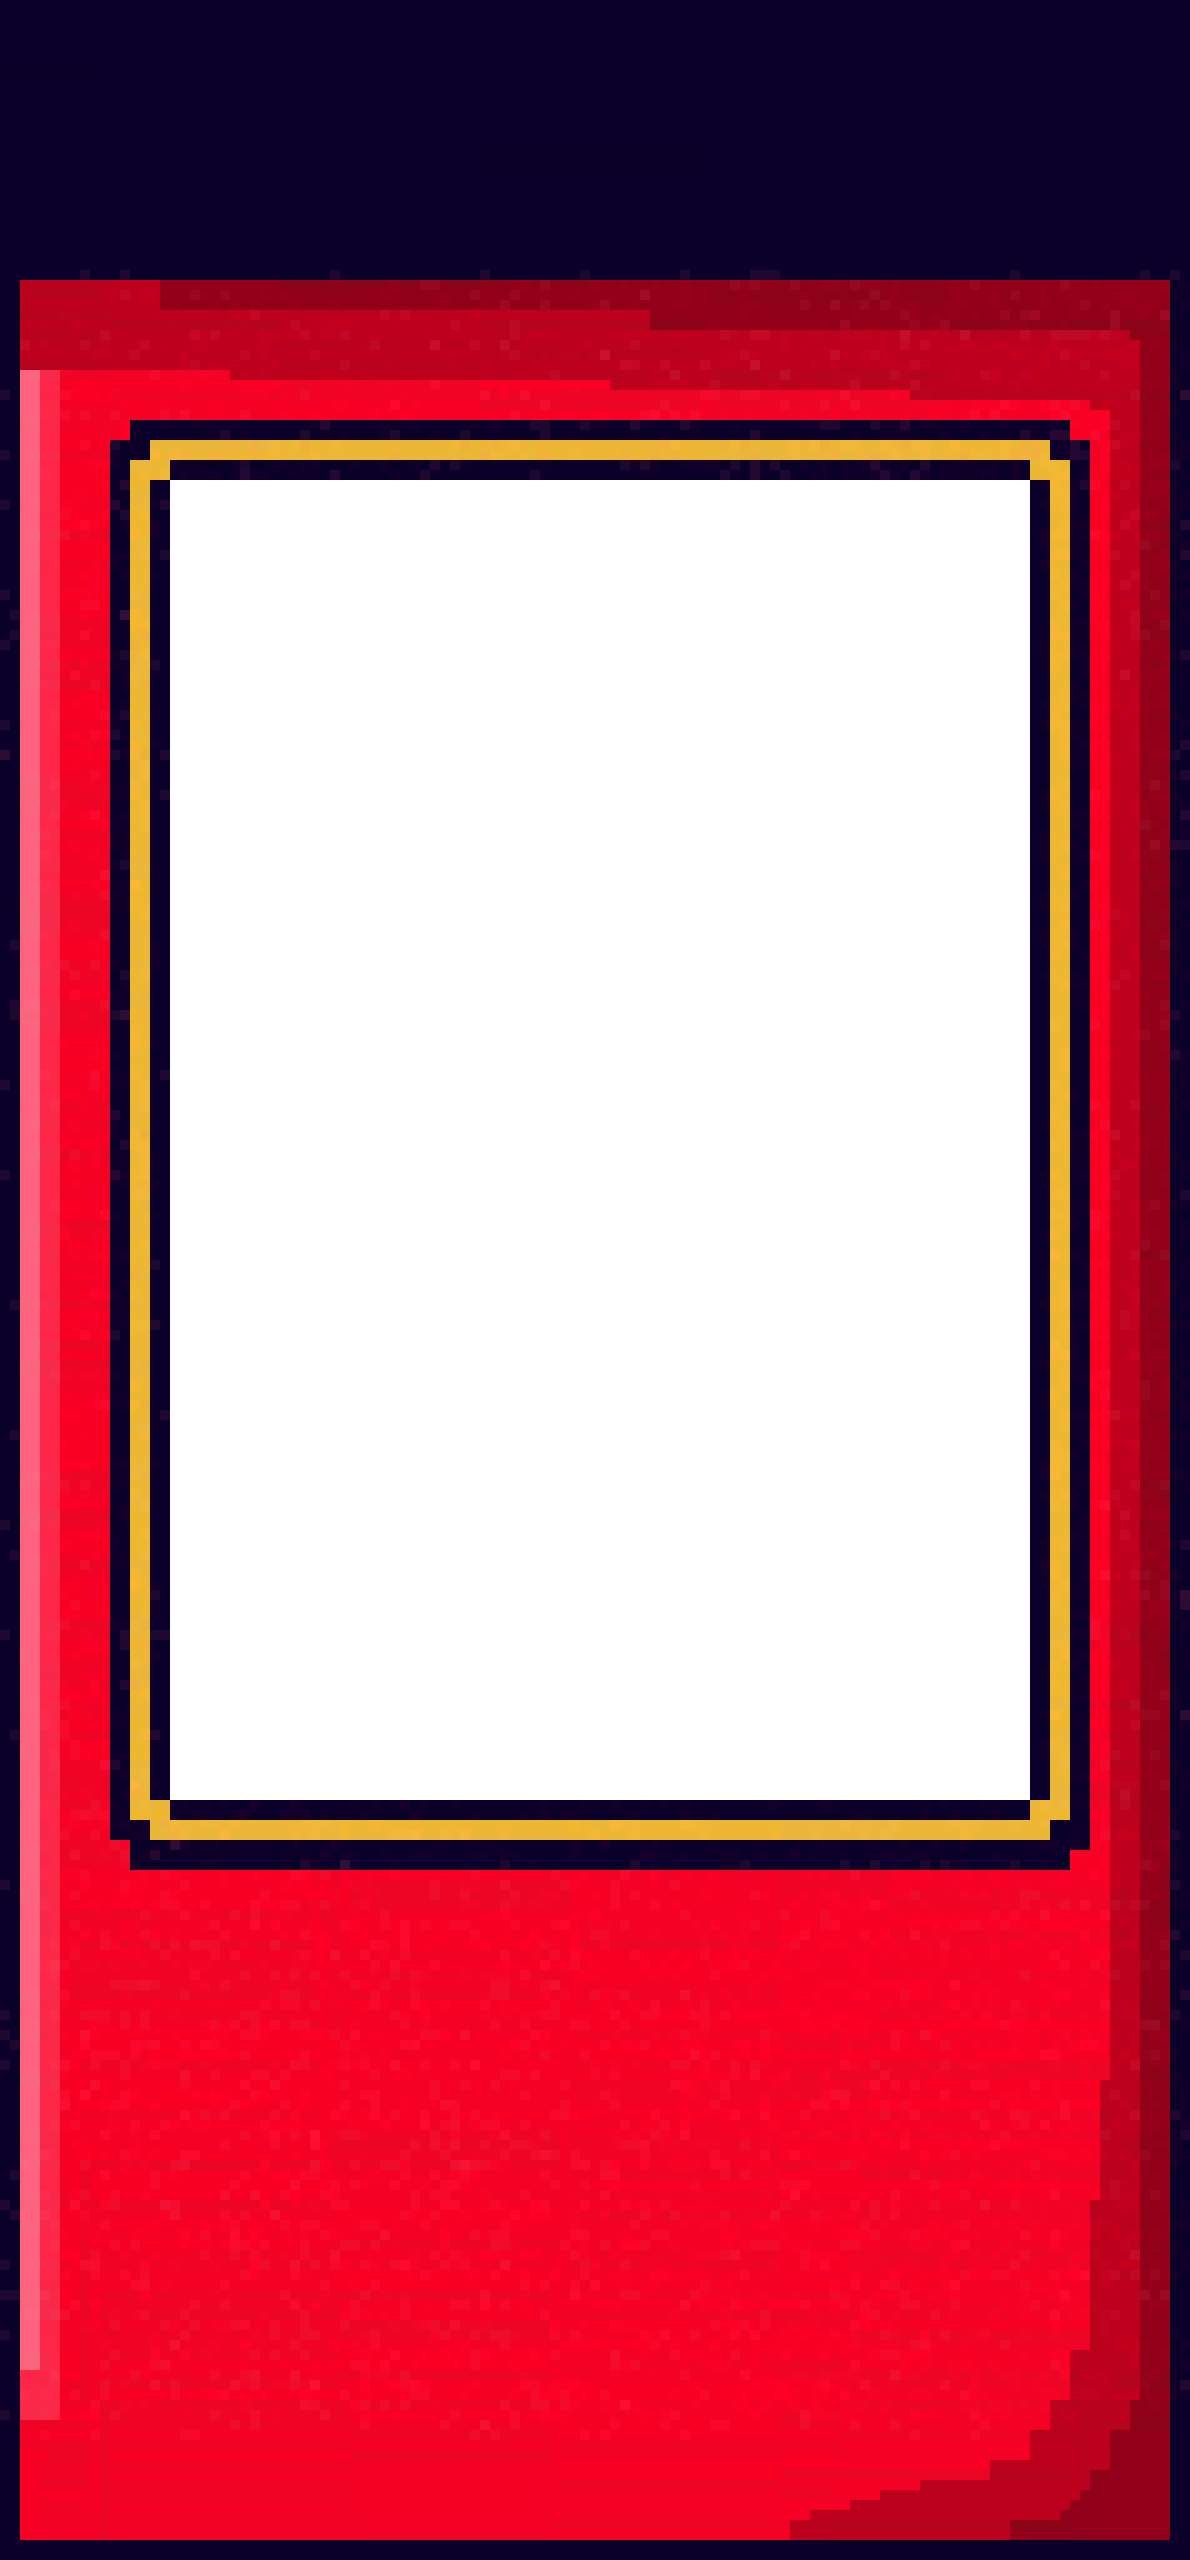
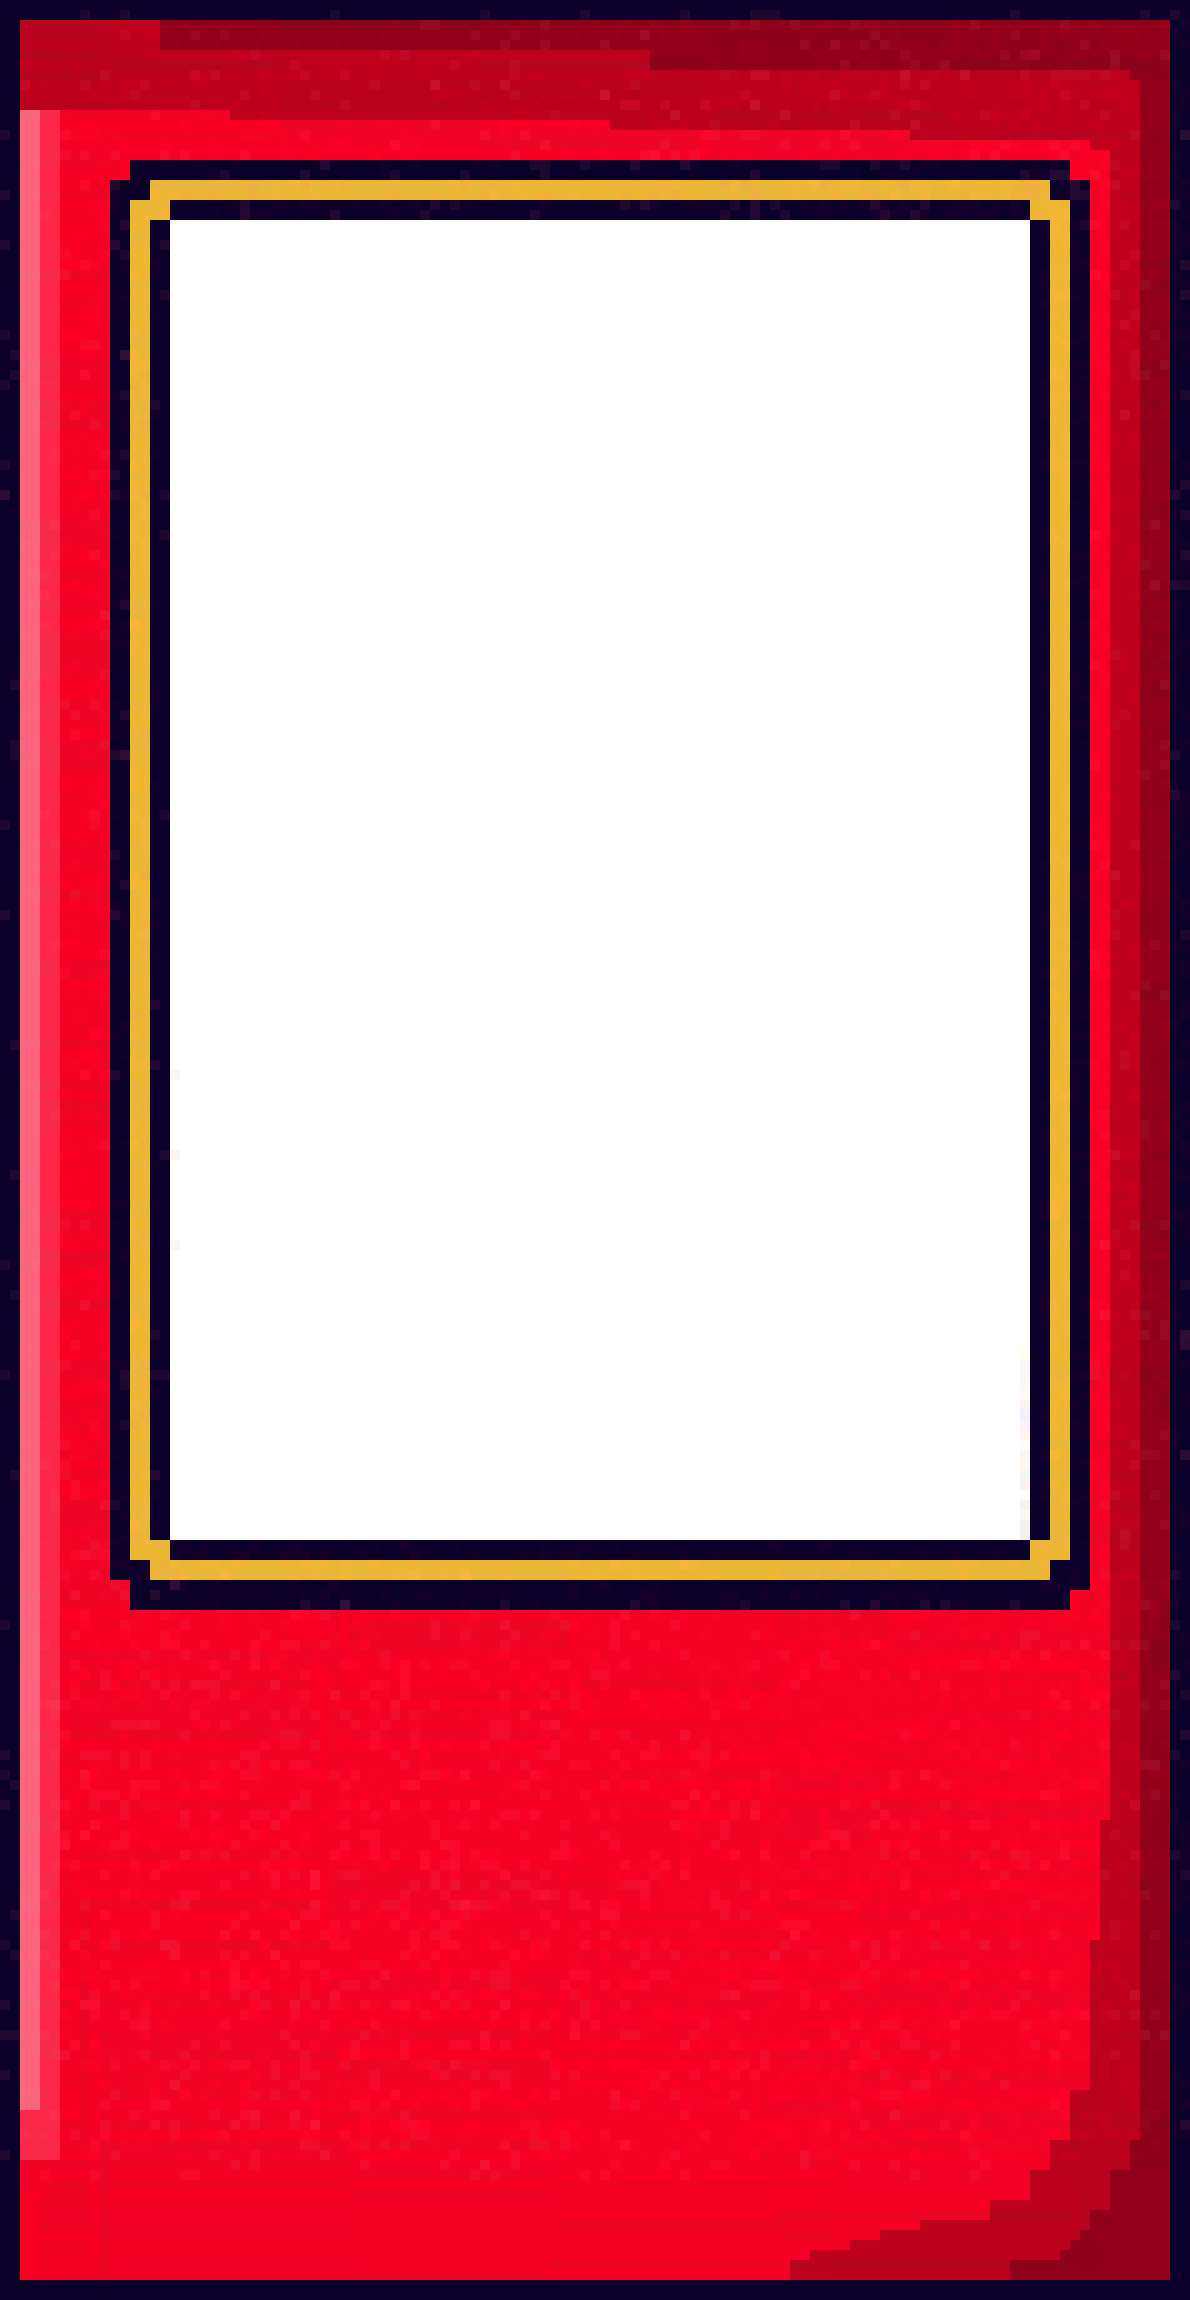
Temp fix for different size screens and tablets

diff --git a/frontend/Clawser/components/PlayScreen.tsx b/frontend/Clawser/components/PlayScreen.tsx
@@ -120,7 +120,6 @@ const styles = StyleSheet.create({
   },
 
   headerOverlay: {
-    position: "absolute",
     top: 0,
     left: 0,
     right: 0,
@@ -131,31 +130,29 @@ const styles = StyleSheet.create({
     flex: 1,
     alignItems: "center",
     justifyContent: "flex-start",
-    paddingTop: 0,
   },
 
   machineArea: {
-    position: "relative",
-    width: width,
-    height: Math.min(height * 0.75, 760),
+    flex: 1,
     alignItems: "center",
     justifyContent: "flex-start",
   },
 
   streamWrap: {
     position: "absolute",
-    top: 100,
+    left: 0, right: 0, top: 0, bottom: 0,
     alignItems: "center",
     zIndex: 1,
   },
 
   streamFrame: {
-    width: Math.min(width * 0.8, 420),
-    aspectRatio: 100 / 135,
-    top: 30,
+    height: height*.51,
+    aspectRatio: 44/66,
+    top: height * .080,
+    marginLeft: 3.5,
     borderRadius: 12,
     overflow: "hidden",
-    borderWidth: 4,
+    borderWidth: 1,
     borderColor: "rgba(0, 229, 255, 0.96)",
     backgroundColor: "#000",
     zIndex: 2,
@@ -168,42 +165,43 @@ const styles = StyleSheet.create({
   
   arcadeOverlay: {
     position: "absolute",
-    top: 0,
-    flex: 1,
-    width: "100%",
-    height: Math.min(height * 0.89, 1760),
+    left: 0, right: 0, top: 0, bottom: 0,
+    alignItems: "center",
     zIndex: 5,
   },
 
   arcadeImage: {
-    width: "100%",
     height: "100%",
-    resizeMode: "stretch",
+    aspectRatio: 1,
+    resizeMode: "contain",
   },
 
   controlsContainer: {
     position: "absolute",
     left: 0,
     right: 0,
-    top: height * 0.57,
-    width: width,
+    top: height * 0.55,
+    bottom: 0,
+    //width: width,
     zIndex: 10,
-    flex: 1,
-    justifyContent: "center",
+    //flex: 1,
+    justifyContent: "flex-end",
     alignItems: "center",
-    paddingHorizontal: 24,
+    //paddingHorizontal: 24,
+    paddingBottom: "4%",
   },
 
   controlsOverlay: {
-    width: width * 0.8,
+    //flex: 1,
+    height: height * .25,
+    width: height * 0.42,
     flexDirection: "row",
     justifyContent: "space-between",
+    paddingTop: "80%",
   },
 
-
-
   switchCameraWrap: {
-    width: "100%",
+    flex: 1,
     justifyContent: "center",
     alignItems: "flex-end",
     paddingRight: "10%",
